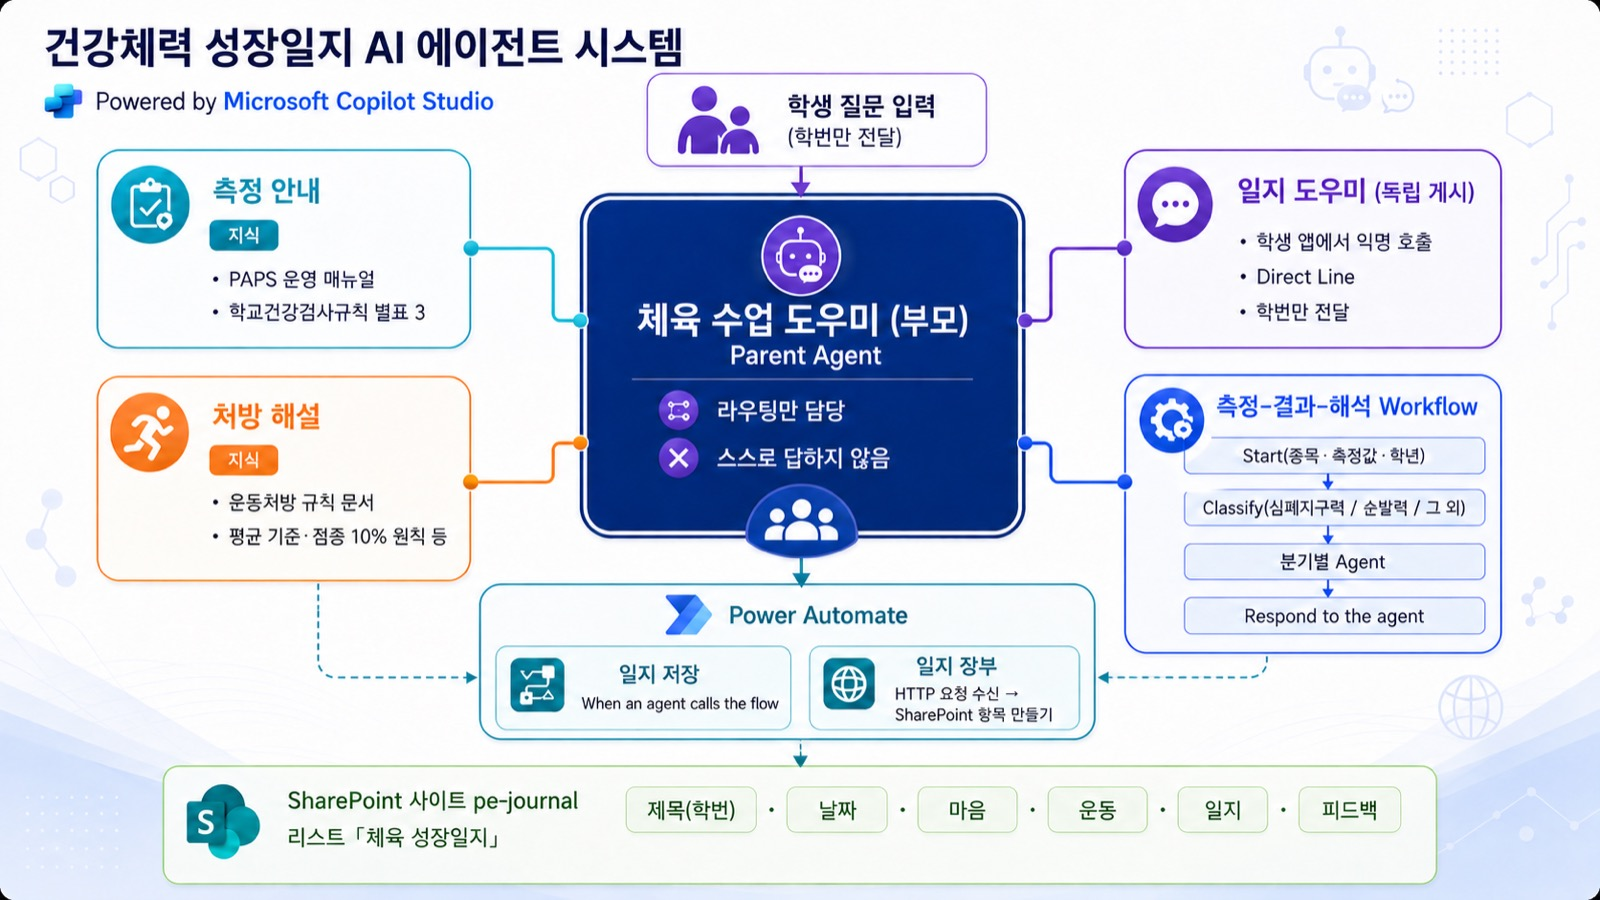
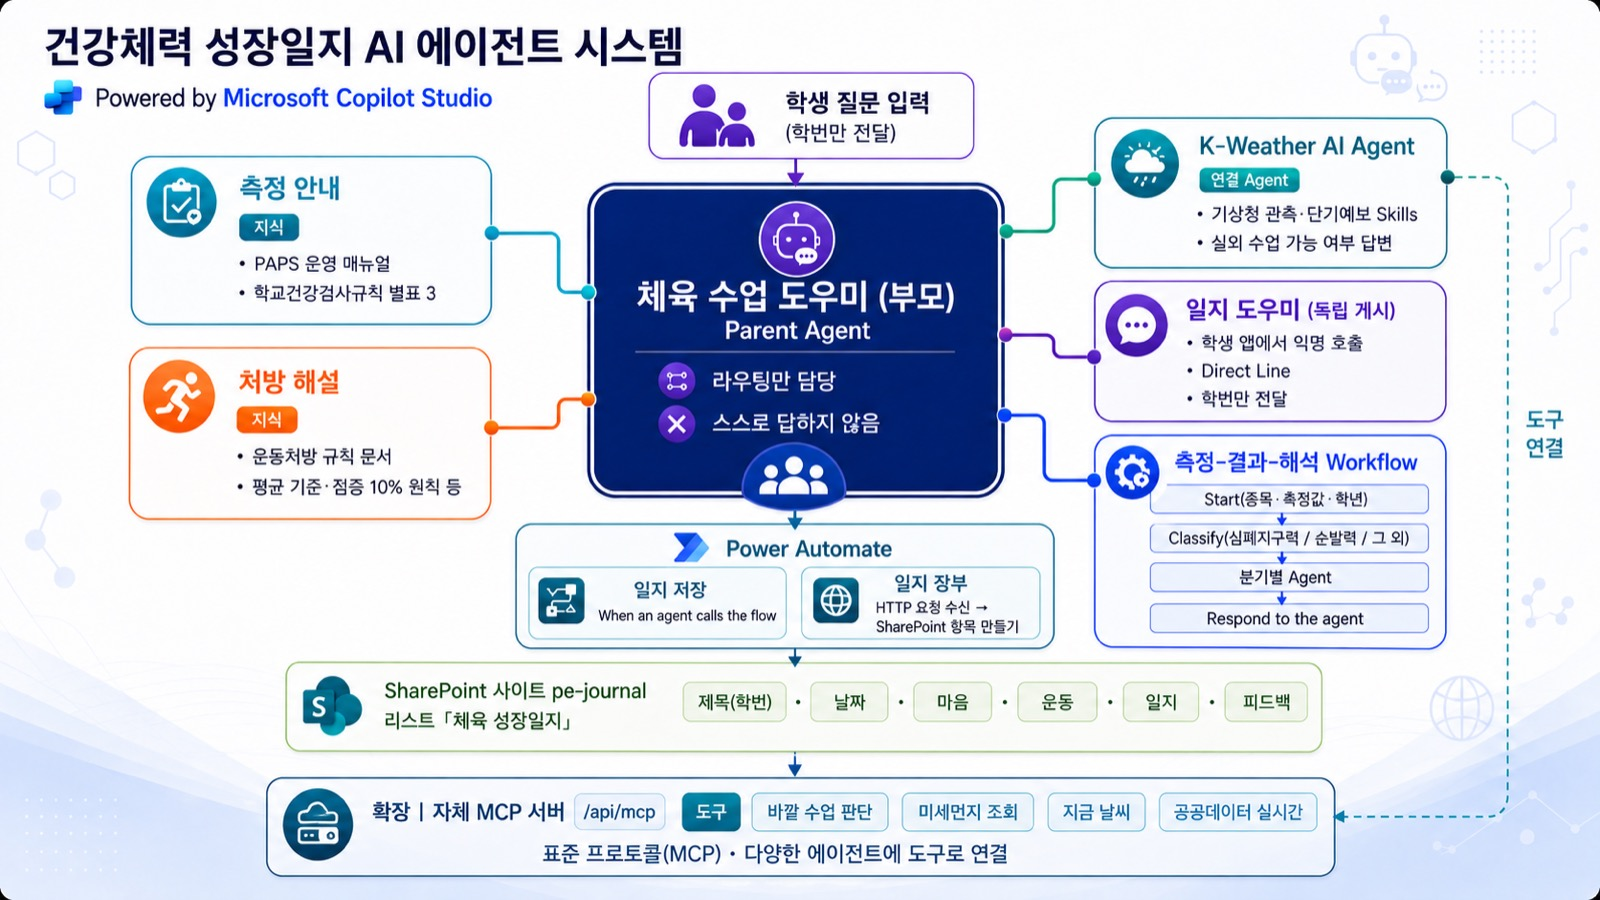
시스템 구성도·구조도를 오늘 작업까지 담은 새 그림으로 교체
keymaker님이 갱신한 다이어그램 — 구성도에는 오늘 바깥 수업(공공데이터)과
MCP 서버 갈래, 구조도에는 K-Weather 연결 에이전트와 MCP 확장이 들어갔다.
페이지 설명 카드도 다섯 갈래·연결 에이전트·MCP 확장 기준으로 맞췄다.

Claude-Session: https://claude.ai/code/session_01SF7ozicUYsEE6Bi8ZdNXrw

Changed region(s): [[0.0312, 0.0311, 1.0, 0.9956], [0.0312, 0.0311, 0.4375, 0.1244], [0.9375, 0.2178, 0.9688, 0.3733]]

diff --git a/src/app/system/architecture/page.tsx b/src/app/system/architecture/page.tsx
@@ -10,7 +10,7 @@ export default function SystemArchitecturePage() {
       <PageTitle
         kicker="시스템 구조도"
         title="AI 에이전트가 짜인 방식"
-        sub="Microsoft Copilot Studio 위에 에이전트 4개·흐름 2개·워크플로우 1개가 역할을 나눠 맡습니다."
+        sub="Microsoft Copilot Studio 위에 에이전트 4개 + 연결 에이전트(K-Weather)·흐름 2개·워크플로우 1개가 역할을 나눠 맡고, 앱의 MCP 서버로 확장됩니다."
       />
       <div className="card overflow-hidden">
         {/* eslint-disable-next-line @next/next/no-img-element */}
@@ -18,14 +18,16 @@ export default function SystemArchitecturePage() {
       </div>
       <Card>
         <div className="flex flex-wrap items-center gap-[var(--space-50)]">
-          <Tag tone="brand">에이전트 4개</Tag>
+          <Tag tone="brand">에이전트 4개 + 연결 1개</Tag>
           <Tag>흐름 2개</Tag>
           <Tag>워크플로우 1개</Tag>
+          <Tag>MCP 확장</Tag>
         </div>
         <ul className="mt-[var(--space-150)] list-disc space-y-[var(--space-100)] pl-5 text-[var(--font-size-300)]">
           <li>
             <b>체육 수업 도우미(부모)</b> — 스스로 답하지 않고 라우팅만 합니다. 질문을 「측정 안내」(PAPS 운영
-            매뉴얼·학교건강검사규칙)와 「처방 해설」(운동처방 규칙 문서)로 넘깁니다.
+            매뉴얼·학교건강검사규칙)와 「처방 해설」(운동처방 규칙 문서), 그리고 연결 에이전트
+            <b> K-Weather</b>(기상청 관측·단기예보 Skills — 실외 수업 가능 여부)로 넘깁니다.
           </li>
           <li>
             <b>일지 도우미(독립 게시)</b> — 학생 앱에서 Direct Line으로 익명 호출됩니다. 이름 없이 학번만 전달하고,
@@ -39,6 +41,11 @@ export default function SystemArchitecturePage() {
             <b>Power Automate 흐름 2개</b> — 「일지 저장」(에이전트가 호출)과 「일지 장부」(앱 서버가 HTTP로 호출).
             둘 다 SharePoint 사이트 pe-journal의 「체육 성장일지」 리스트에 제목(학번)·날짜·마음·운동·일지·피드백
             여섯 칸을 남깁니다.
+          </li>
+          <li>
+            <b>자체 MCP 서버(확장)</b> — 앱이 /api/mcp 로 「바깥 수업 판단」·「미세먼지 조회」·「지금 날씨」 도구를
+            표준 프로토콜(MCP)로 제공합니다. 공공데이터 실시간 자료를 물고 있어, 다양한 에이전트에 그대로 도구로
+            연결할 수 있습니다.
           </li>
         </ul>
       </Card>

diff --git a/src/app/system/composition/page.tsx b/src/app/system/composition/page.tsx
@@ -10,7 +10,7 @@ export default function SystemCompositionPage() {
       <PageTitle
         kicker="시스템 구성도"
         title="건강체력 성장일지가 돌아가는 방식"
-        sub="학생 태블릿의 웹앱 하나에서 카메라 측정·일지·교사 활용 세 갈래가 갈라집니다."
+        sub="학생 태블릿의 웹앱 하나에서 카메라 측정·오늘 바깥 수업·일지·교사 활용·MCP 서버 다섯 갈래가 갈라집니다."
       />
       <div className="card overflow-hidden">
         {/* eslint-disable-next-line @next/next/no-img-element */}
@@ -18,7 +18,7 @@ export default function SystemCompositionPage() {
       </div>
       <Card>
         <div className="flex flex-wrap items-center gap-[var(--space-50)]">
-          <Tag tone="brand">세 갈래</Tag>
+          <Tag tone="brand">다섯 갈래</Tag>
         </div>
         <ul className="mt-[var(--space-150)] list-disc space-y-[var(--space-100)] pl-5 text-[var(--font-size-300)]">
           <li>
@@ -26,13 +26,21 @@ export default function SystemCompositionPage() {
             막아도 측정 수업이 멈추지 않습니다.
           </li>
           <li>
+            <b>오늘 바깥 수업</b> — 앱 서버(/api/outdoor)가 공공데이터(에어코리아 미세먼지·기상청 API허브 관측)를
+            읽어, 실외 수업 가능 여부를 학교 미세먼지 대응 기준으로 알려줍니다.
+          </li>
+          <li>
             <b>일지 작성</b> — 학생 글은 앱 서버(/api/journal-feedback)를 거쳐 두 길로 갈라집니다. 답변은 Copilot
             Studio 「일지 도우미」가 만들고, 기록은 Power Automate 「일지 장부」가 SharePoint 리스트에 확정적으로
             남깁니다. 답변 경로와 기록 경로를 분리한 것이 핵심입니다.
           </li>
           <li>
-            <b>교사 활용</b> — 교사는 Teams에서 「체육 수업 도우미」에게 물어보고, 도우미가 측정 안내·처방 해설
-            에이전트로 라우팅합니다.
+            <b>교사 활용</b> — 교사는 Teams에서 「체육 수업 도우미」에게 물어보고, 도우미가 측정 안내·처방 해설과
+            K-Weather(날씨·실외 수업 판단) 에이전트로 라우팅합니다.
+          </li>
+          <li>
+            <b>MCP 서버</b> — 앱이 /api/mcp 로 바깥 수업 판단 등 도구 3개를 표준 프로토콜(MCP)로 내놓아, 외부의
+            어떤 에이전트든 도구로 연결할 수 있습니다.
           </li>
         </ul>
       </Card>
